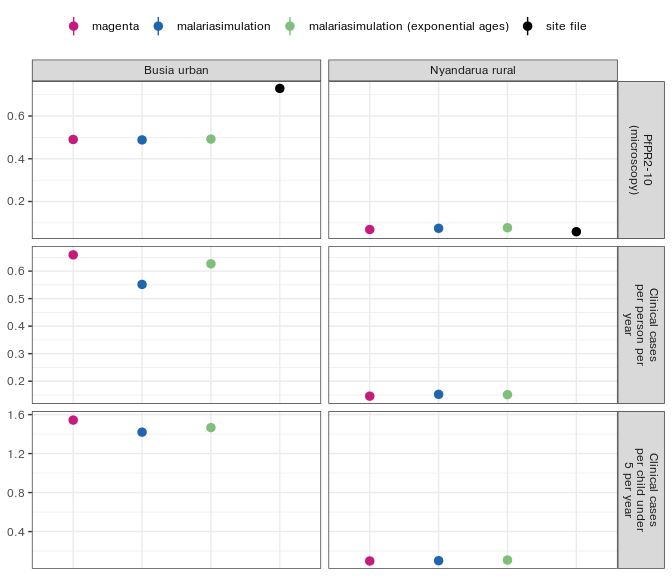
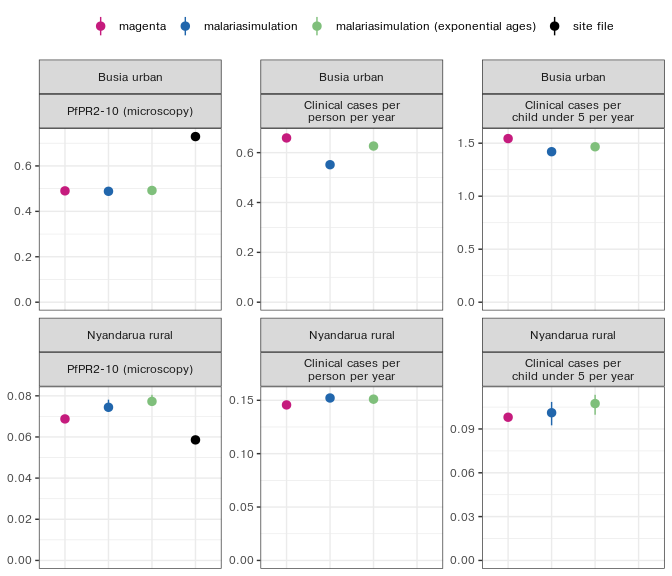
Deploying to gh-pages from @ OJWatson/magenta@c26b14e8c08200233d51ef123b066b1fcbded8b6 🚀

diff --git a/articles/SiteFiles.html b/articles/SiteFiles.html
@@ -291,7 +291,8 @@ value.</p>
 <span></span>
 <span><span class="fu"><a href="https://ggplot2.tidyverse.org/reference/ggplot.html" class="external-link">ggplot</a></span><span class="op">(</span><span class="va">d</span>, <span class="fu"><a href="https://ggplot2.tidyverse.org/reference/aes.html" class="external-link">aes</a></span><span class="op">(</span><span class="va">model</span>, <span class="va">mean</span>, colour <span class="op">=</span> <span class="va">model</span><span class="op">)</span><span class="op">)</span> <span class="op">+</span></span>
 <span>  <span class="fu"><a href="https://ggplot2.tidyverse.org/reference/geom_linerange.html" class="external-link">geom_pointrange</a></span><span class="op">(</span><span class="fu"><a href="https://ggplot2.tidyverse.org/reference/aes.html" class="external-link">aes</a></span><span class="op">(</span>ymin <span class="op">=</span> <span class="va">lo</span>, ymax <span class="op">=</span> <span class="va">hi</span><span class="op">)</span><span class="op">)</span> <span class="op">+</span></span>
-<span>  <span class="fu"><a href="https://ggplot2.tidyverse.org/reference/facet_grid.html" class="external-link">facet_grid</a></span><span class="op">(</span><span class="va">output</span> <span class="op">~</span> <span class="va">unit</span>, scales <span class="op">=</span> <span class="st">"free_y"</span>, labeller <span class="op">=</span> <span class="fu"><a href="https://ggplot2.tidyverse.org/reference/labellers.html" class="external-link">label_wrap_gen</a></span><span class="op">(</span><span class="fl">16</span><span class="op">)</span><span class="op">)</span> <span class="op">+</span></span>
+<span>  <span class="fu"><a href="https://ggplot2.tidyverse.org/reference/facet_wrap.html" class="external-link">facet_wrap</a></span><span class="op">(</span><span class="va">unit</span> <span class="op">~</span> <span class="va">output</span>, scales <span class="op">=</span> <span class="st">"free_y"</span>, ncol <span class="op">=</span> <span class="fl">3</span>, labeller <span class="op">=</span> <span class="fu"><a href="https://ggplot2.tidyverse.org/reference/labellers.html" class="external-link">label_wrap_gen</a></span><span class="op">(</span><span class="fl">24</span><span class="op">)</span><span class="op">)</span> <span class="op">+</span></span>
+<span>  <span class="fu"><a href="https://ggplot2.tidyverse.org/reference/expand_limits.html" class="external-link">expand_limits</a></span><span class="op">(</span>y <span class="op">=</span> <span class="fl">0</span><span class="op">)</span> <span class="op">+</span></span>
 <span>  <span class="fu"><a href="https://ggplot2.tidyverse.org/reference/scale_manual.html" class="external-link">scale_colour_manual</a></span><span class="op">(</span>values <span class="op">=</span> <span class="va">model_colours</span><span class="op">)</span> <span class="op">+</span></span>
 <span>  <span class="fu"><a href="https://ggplot2.tidyverse.org/reference/labs.html" class="external-link">labs</a></span><span class="op">(</span>x <span class="op">=</span> <span class="cn">NULL</span>, y <span class="op">=</span> <span class="cn">NULL</span>, colour <span class="op">=</span> <span class="cn">NULL</span><span class="op">)</span> <span class="op">+</span></span>
 <span>  <span class="fu"><a href="https://ggplot2.tidyverse.org/reference/ggtheme.html" class="external-link">theme_bw</a></span><span class="op">(</span><span class="op">)</span> <span class="op">+</span></span>
